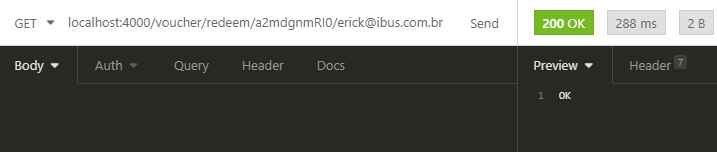
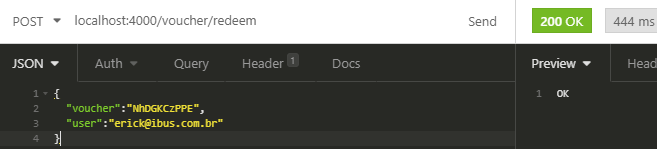
redeem voucher

diff --git a/API/server.js b/API/server.js
@@ -191,11 +191,11 @@ app.get('/voucher/:value?', (req, res) => {
 });
 
 //Utiliza um voucher de regarga
-app.get('/voucher/redeem/:voucher?/:email?', (req, res) => {
-  const voucher = req.params.voucher;
-  const email = req.params.email;
+app.post('/voucher/redeem', (req, res) => {
+  const voucher = req.body.voucher;
+  const email = req.body.user;
   if (!voucher) return res.status(400).send({ error: 'Voucher não informado' });
-  if (!email) return res.status(400).send({ error: 'Email não informado' });
+  if (!email) return res.status(400).send({ error: 'Usuário não informado' });
 
   vouchers.redeemVoucher(voucher, email)
     .then((response) => {
